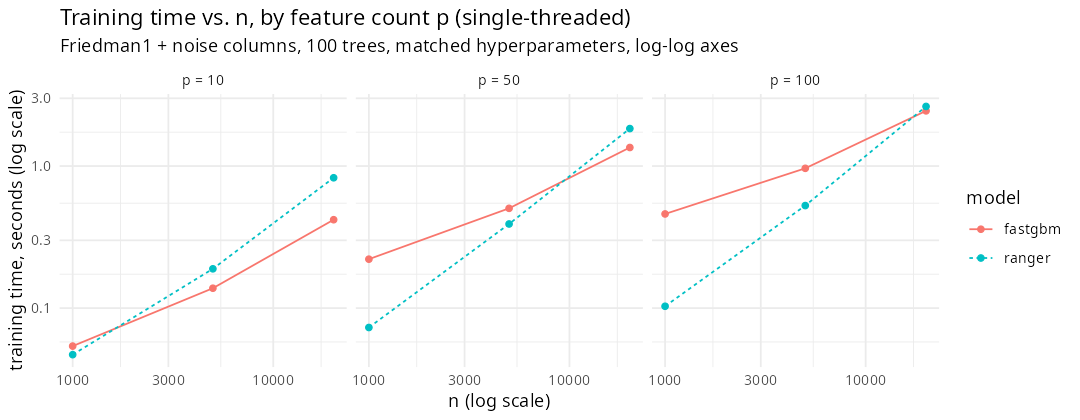
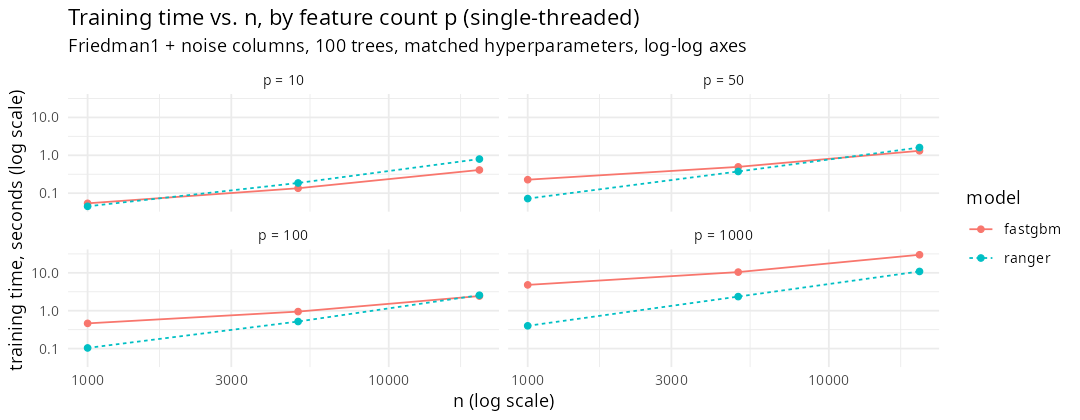
Extend scaling benchmark to p = 1000
Sharpens the colsample finding: at n=1000, fastgbm/ranger ratio reaches
12.04x (slower) at p=1000 vs 4.45x at p=100. Unlike lower p, growing n
does not fully rescue fastgbm at p=1000 within the tested range (still
~2.8x slower than ranger even at n=20000) -- colsample tuning matters
most exactly in this regime. Re-ran the thread-count sweep at the new
largest grid point (n=20000, p=1000): shows better multi-threaded speedup
than at p=100 (5.8x vs 3.0x at 16 threads), since a wider colsample-sampled
feature set gives the level-wise split search more to parallelize per level.

diff --git a/README.md b/README.md
@@ -284,39 +284,46 @@ trees are independent), while `fastgbm`'s boosting is sequential across
 trees and only parallelizes *within* a tree's split search -- so how the two
 compare depends on data shape and thread count, not just one point.
 `inst/benchmarks/run-benchmark-scaling.R` sweeps `n` in `{1000, 5000, 20000}`
-and `p` in `{10, 50, 100}` (Friedman1's 10 columns plus pure-noise columns
-to reach the target `p`), single-threaded, 100 trees, matched
+and `p` in `{10, 50, 100, 1000}` (Friedman1's 10 columns plus pure-noise
+columns to reach the target `p`), single-threaded, 100 trees, matched
 hyperparameters:
 
 ![fastgbm vs ranger training time across n and p, log-log axes, single-threaded](inst/benchmarks/scaling-benchmark-np.png)
 
 Two clear patterns: **fastgbm's relative speed improves as `n` grows**
-(fastgbm/ranger training-time ratio goes from 1.30x at `n=1000, p=10` to
-0.57x at `n=20000, p=10` -- crossing over from slower to faster), but
-**degrades as `p` grows** (1.30x -> 3.01x -> 4.41x at `n=1000` as `p` goes
-10 -> 50 -> 100). The `p` effect traces to a real, fixable cause, not an
-engine inefficiency: `fastgbm`'s default `colsample = 0.8` searches ~80% of
-features at every split regardless of `p`, while `ranger`'s default `mtry`
-for regression is `p/3` -- at `p = 100` that is 80 features searched per
-split vs. 33. Setting `fastgbm`'s `colsample` to match (`1/3` here) confirms
-it: at `n = 5000, p = 100`, training time drops from 0.98s (`colsample =
-0.8`) to 0.50s (`colsample = 1/3`), turning a loss to `ranger` (0.57s) into
-a win. The trade-off is real too -- `colsample = 0.8` was the package's own
-tuned default for a reason (see `?fastgbm`: it gave a small but consistently
-non-negative C-index gain on the survival benchmark datasets), so this is a
-speed/accuracy dial, not a free lunch.
+(fastgbm/ranger training-time ratio goes from 1.20x at `n=1000, p=10` to
+0.52x at `n=20000, p=10` -- crossing over from slower to faster), but
+**degrades as `p` grows** (1.20x -> 3.15x -> 4.45x -> 12.04x at `n=1000` as
+`p` goes 10 -> 50 -> 100 -> 1000). The `p` effect traces to a real, fixable
+cause, not an engine inefficiency: `fastgbm`'s default `colsample = 0.8`
+searches ~80% of features at every split regardless of `p`, while `ranger`'s
+default `mtry` for regression is `p/3` -- at `p = 1000` that is 800 features
+searched per split vs. 333. Setting `fastgbm`'s `colsample` to match (`1/3`
+here) confirms it: at `n = 5000, p = 100`, training time drops from 0.98s
+(`colsample = 0.8`) to 0.50s (`colsample = 1/3`), turning a loss to `ranger`
+(0.57s) into a win. The trade-off is real too -- `colsample = 0.8` was the
+package's own tuned default for a reason (see `?fastgbm`: it gave a small
+but consistently non-negative C-index gain on the survival benchmark
+datasets), so this is a speed/accuracy dial, not a free lunch. Note that
+`n` growing does not always rescue `fastgbm` from a high-`p` disadvantage
+the way it does at `p <= 100`: at `p = 1000`, `fastgbm` is still ~2.8x
+slower than `ranger` even at the largest `n` tested (`n = 20000`), the one
+`p` in this grid where growing `n` alone was not enough to close the gap --
+`colsample` tuning matters most exactly here.
 
 The thread sweep (`inst/benchmarks/run-benchmark-scaling.R`, at the largest
-grid point, `n = 20000, p = 100`, on a 16-core machine) shows real but
+grid point, `n = 20000, p = 1000`, on a 16-core machine) shows real but
 sub-linear speedup, as expected for within-tree (not across-tree)
-parallelism:
+parallelism -- and *better* scaling than the smaller `p = 100` grid point
+used in earlier versions of this section, since a wider `colsample`-sampled
+feature set gives the level-wise split search more to parallelize per level:
 
-![fastgbm multi-threaded speedup vs thread count, n=20000 p=100](inst/benchmarks/scaling-benchmark-threads.png)
+![fastgbm multi-threaded speedup vs thread count, n=20000 p=1000](inst/benchmarks/scaling-benchmark-threads.png)
 
-1.6x at 2 threads, 2.3x at 4 threads, 3.0x at 16 threads (with the level-wise
-tree-growth engine described further below; an earlier per-node-parallel
-version reached only ~2.3x at 16 threads) -- real, and improved, but still
-nowhere near the dashed ideal-linear line, and not worth reaching for on
+1.8x at 2 threads, 3.5x at 4 threads, 5.8x at 16 threads (with the level-wise
+tree-growth engine described further below; the same sweep at `p = 100`
+reached only ~3.0x at 16 threads) -- real, and clearly improved at high `p`,
+but still nowhere near the dashed ideal-linear line, and not worth reaching for on
 small data (`threads = 1L` already skips `parallelFor()`'s dispatch overhead
 entirely; see "Split-search optimizations" above).
 

diff --git a/NEWS.md b/NEWS.md
@@ -1,5 +1,19 @@
 # fastgbm 0.1.0 (unreleased)
 
+## Scaling benchmark extended to p = 1000
+
+* `inst/benchmarks/run-benchmark-scaling.R`'s `P_GRID` now includes `1000`
+  (was `{10, 50, 100}`). Confirms and sharpens the earlier `colsample`
+  finding: at `n = 1000`, the fastgbm/ranger training-time ratio reaches
+  12.04x (slower) at `p = 1000`, vs. 4.45x at `p = 100`. Unlike lower `p`,
+  growing `n` does not rescue `fastgbm` at `p = 1000` within the tested
+  range -- it is still ~2.8x slower than `ranger` even at `n = 20000`
+  (`colsample` tuning matters most exactly in this regime). The
+  thread-count sweep, now run at the new largest grid point (`n = 20000,
+  p = 1000`), shows *better* multi-threaded speedup than at `p = 100`
+  (5.8x vs. 3.0x at 16 threads) since a wider `colsample`-sampled feature
+  set gives the level-wise split search more to parallelize per level.
+
 ## Multi-threaded scaling: level-wise (breadth-first) tree growth
 
 * Added `inst/benchmarks/run-benchmark-multithreaded.R`: a direct head-to-head
